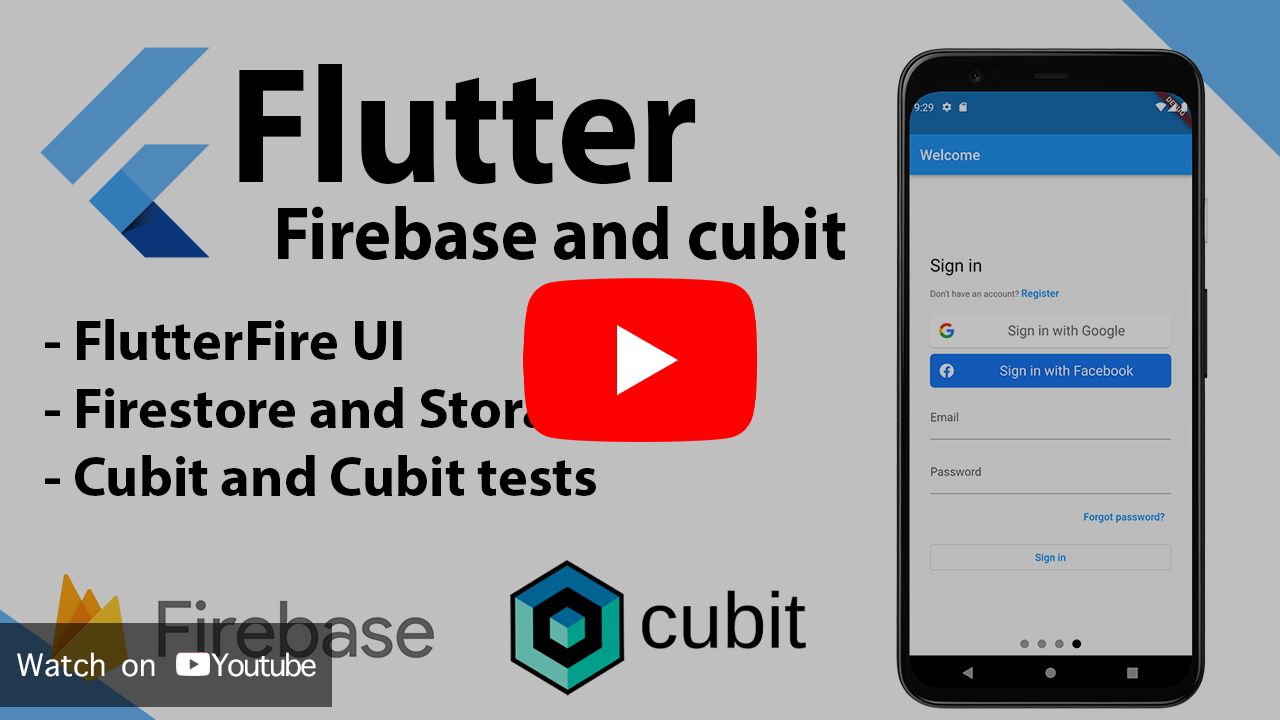
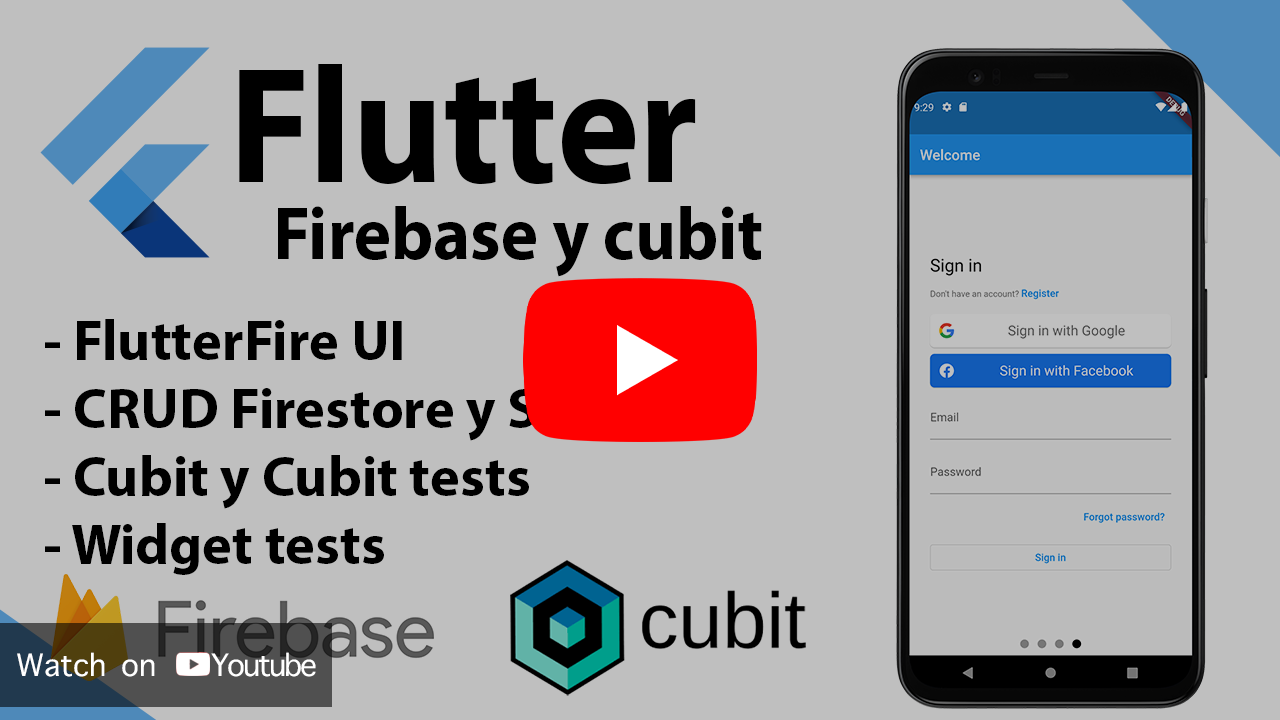
Add widget tests

Changed region(s): [[0.0625, 0.5194, 0.4688, 0.7028], [0.4375, 0.275, 0.6562, 0.3972], [0.0312, 0.7333, 0.3125, 0.7944]]

diff --git a/flutter_simple_firebase_crud_cubit/test/widget_test/edit_my_user_screen_test.dart b/flutter_simple_firebase_crud_cubit/test/widget_test/edit_my_user_screen_test.dart
@@ -1,0 +1,104 @@
+import 'package:flutter/material.dart';
+import 'package:flutter_simple_firebase_crud_cubit/main.dart';
+import 'package:flutter_simple_firebase_crud_cubit/src/model/my_user.dart';
+import 'package:flutter_simple_firebase_crud_cubit/src/repository/my_user_repository.dart';
+import 'package:flutter_simple_firebase_crud_cubit/src/ui/edit_my_user_screen.dart';
+import 'package:flutter_test/flutter_test.dart';
+import 'package:mocktail/mocktail.dart';
+
+const _myUser1 = MyUser(id: '111', name: 'Yayo', lastName: 'Arellano', age: 28);
+
+class _MockMyUser extends Mock implements MyUser {}
+
+class _MockMyUserRepo extends Mock implements MyUserRepository {}
+
+void main() {
+  late _MockMyUserRepo mockRepo;
+
+  setUp(() async {
+    await getIt.reset();
+    registerFallbackValue(_MockMyUser());
+    mockRepo = _MockMyUserRepo();
+    getIt.registerSingleton<MyUserRepository>(mockRepo);
+  });
+
+  Widget getMaterialApp({MyUser? arguments}) {
+    return MaterialApp(
+      onGenerateRoute: (settings) {
+        return MaterialPageRoute(
+          settings: RouteSettings(arguments: arguments),
+          builder: (_) => const EditMyUserScreen(),
+        );
+      },
+    );
+  }
+
+  testWidgets('Saving user will call repository successfully',
+      (WidgetTester tester) async {
+    when(() => mockRepo.saveMyUser(any(), null)).thenAnswer((_) async {});
+    when(() => mockRepo.newId()).thenReturn('5555');
+
+    await tester.pumpWidget(getMaterialApp());
+    await tester.pumpAndSettle();
+
+    await tester.enterText(find.byKey(const Key('Name')), 'Yayo');
+    await tester.enterText(find.byKey(const Key('Last Name')), 'Are');
+    await tester.enterText(find.byKey(const Key('Age')), '25');
+    await tester.pumpAndSettle();
+
+    await tester.tap(find.text('Save'));
+    await tester.pump(const Duration(seconds: 3));
+
+    const newUser = MyUser(id: '5555', name: 'Yayo', lastName: 'Are', age: 25);
+    verify(() => mockRepo.saveMyUser(newUser, null)).called(1);
+  });
+
+  testWidgets('Updating user will call repository successfully',
+      (WidgetTester tester) async {
+    when(() => mockRepo.saveMyUser(any(), null)).thenAnswer((_) async {});
+
+    await tester.pumpWidget(getMaterialApp(arguments: _myUser1));
+    await tester.pumpAndSettle();
+
+    await tester.enterText(find.byKey(const Key('Name')), 'Hola');
+    await tester.enterText(find.byKey(const Key('Last Name')), 'Mundo');
+    await tester.enterText(find.byKey(const Key('Age')), '10');
+    await tester.pumpAndSettle();
+
+    await tester.tap(find.text('Save'));
+    await tester.pump(const Duration(seconds: 3));
+
+    final updatedUser =
+        _myUser1.copyWith(name: 'Hola', lastName: 'Mundo', age: 10);
+    verify(() => mockRepo.saveMyUser(updatedUser, null)).called(1);
+  });
+
+  testWidgets('When is a new user delete button is not visible',
+      (WidgetTester tester) async {
+    await tester.pumpWidget(getMaterialApp());
+    await tester.pumpAndSettle();
+
+    expect(find.byKey(const Key('Delete')), findsNothing);
+  });
+
+  testWidgets('When is an editing user delete button is visible',
+      (WidgetTester tester) async {
+    await tester.pumpWidget(getMaterialApp(arguments: _myUser1));
+    await tester.pumpAndSettle();
+
+    expect(find.byKey(const Key('Delete')), findsOneWidget);
+  });
+
+  testWidgets('Deleting an editing user will call repository successfully',
+      (WidgetTester tester) async {
+    when(() => mockRepo.deleteMyUser(any())).thenAnswer((_) async {});
+
+    await tester.pumpWidget(getMaterialApp(arguments: _myUser1));
+    await tester.pumpAndSettle();
+
+    await tester.tap(find.byKey(const Key('Delete')));
+    await tester.pump();
+
+    verify(() => mockRepo.deleteMyUser(_myUser1)).called(1);
+  });
+}

diff --git a/flutter_simple_firebase_crud_cubit/test/widget_test/auth_test.dart b/flutter_simple_firebase_crud_cubit/test/widget_test/auth_test.dart
@@ -1,0 +1,88 @@
+import 'dart:async';
+
+import 'package:flutter/material.dart';
+import 'package:flutter_bloc/flutter_bloc.dart';
+import 'package:flutter_simple_firebase_crud_cubit/main.dart';
+import 'package:flutter_simple_firebase_crud_cubit/src/app.dart';
+import 'package:flutter_simple_firebase_crud_cubit/src/cubit/auth_cubit.dart';
+import 'package:flutter_simple_firebase_crud_cubit/src/repository/auth_repository.dart';
+import 'package:flutter_simple_firebase_crud_cubit/src/repository/my_user_repository.dart';
+import 'package:flutter_simple_firebase_crud_cubit/src/ui/home_screen.dart';
+import 'package:flutter_simple_firebase_crud_cubit/src/ui/intro_screen.dart';
+import 'package:flutter_simple_firebase_crud_cubit/src/ui/splash_screen.dart';
+import 'package:flutter_test/flutter_test.dart';
+import 'package:mocktail/mocktail.dart';
+
+class _MockAuthRepo extends Mock implements AuthRepository {}
+
+class _MockMyUserRepo extends Mock implements MyUserRepository {}
+
+Stream<String> get loggedUserStream => Stream.fromIterable(['someUserID']);
+
+void main() {
+  late _MockAuthRepo mockRepo;
+  late _MockMyUserRepo mockUserRepo;
+
+  setUp(() async {
+    await getIt.reset();
+
+    mockRepo = _MockAuthRepo();
+    mockUserRepo = _MockMyUserRepo();
+
+    when(() => mockUserRepo.getMyUsers())
+        .thenAnswer((_) => Stream.fromIterable([]));
+
+    getIt.registerSingleton<AuthRepository>(mockRepo);
+    getIt.registerSingleton<MyUserRepository>(mockUserRepo);
+  });
+
+  Widget getMyApp() {
+    return BlocProvider(
+      create: (_) => AuthCubit()..init(),
+      child: const MyApp(),
+    );
+  }
+
+  testWidgets(
+      'Intro screen will be shown after splash when the user is not logged in',
+      (WidgetTester tester) async {
+    final stream = Stream.fromIterable([null]);
+    when(() => mockRepo.onAuthStateChanged).thenAnswer((_) => stream);
+
+    await tester.pumpWidget(getMyApp());
+    await tester.pump();
+    expect(find.byType(SplashScreen), findsOneWidget);
+
+    await tester.pumpAndSettle();
+    expect(find.byType(IntroScreen), findsOneWidget);
+  });
+
+  testWidgets(
+      'Home screen will be shown after splash when the user is logged in',
+      (WidgetTester tester) async {
+    when(() => mockRepo.onAuthStateChanged).thenAnswer((_) => loggedUserStream);
+
+    await tester.pumpWidget(getMyApp());
+    await tester.pump();
+    expect(find.byType(SplashScreen), findsOneWidget);
+
+    await tester.pumpAndSettle();
+    expect(find.byType(HomeScreen), findsOneWidget);
+  });
+
+  testWidgets('Pressing logout will return to the IntroScreen',
+      (WidgetTester tester) async {
+    when(() => mockRepo.onAuthStateChanged).thenAnswer((_) => loggedUserStream);
+    when(() => mockRepo.signOut()).thenAnswer((_) async {});
+
+    await tester.pumpWidget(getMyApp());
+    await tester.pumpAndSettle();
+
+    expect(find.byType(HomeScreen), findsOneWidget);
+
+    await tester.tap(find.byKey(const Key('Logout')));
+    await tester.pumpAndSettle();
+
+    expect(find.byType(IntroScreen), findsOneWidget);
+  });
+}

diff --git a/flutter_simple_firebase_crud_cubit/test/widget_test/home_screen_test.dart b/flutter_simple_firebase_crud_cubit/test/widget_test/home_screen_test.dart
@@ -1,0 +1,54 @@
+import 'package:flutter/material.dart';
+import 'package:flutter_simple_firebase_crud_cubit/main.dart';
+import 'package:flutter_simple_firebase_crud_cubit/src/model/my_user.dart';
+import 'package:flutter_simple_firebase_crud_cubit/src/repository/my_user_repository.dart';
+import 'package:flutter_simple_firebase_crud_cubit/src/ui/home_screen.dart';
+import 'package:flutter_test/flutter_test.dart';
+import 'package:mocktail/mocktail.dart';
+
+const _myUser1 = MyUser(id: '111', name: 'Yayo', lastName: 'Arellano', age: 28);
+const _myUser2 = MyUser(id: '222', name: 'Gera', lastName: 'Doe', age: 25);
+
+class _MockMyUserRepo extends Mock implements MyUserRepository {}
+
+void main() {
+  late _MockMyUserRepo mockRepo;
+
+  setUp(() async {
+    await getIt.reset();
+    mockRepo = _MockMyUserRepo();
+    getIt.registerSingleton<MyUserRepository>(mockRepo);
+  });
+
+  Widget getMaterialApp() {
+    return const MaterialApp(
+      home: HomeScreen(),
+    );
+  }
+
+  testWidgets('Empty list when repository returns 0 users',
+      (WidgetTester tester) async {
+    when(() => mockRepo.getMyUsers()).thenAnswer((_) {
+      return Stream.fromIterable([]);
+    });
+
+    await tester.pumpWidget(getMaterialApp());
+    await tester.pumpAndSettle();
+
+    expect(find.byType(Card), findsNothing);
+  });
+
+  testWidgets('Two items in the  list when repository returns 2 users',
+      (WidgetTester tester) async {
+    when(() => mockRepo.getMyUsers()).thenAnswer((_) {
+      return Stream.fromIterable([
+        [_myUser1, _myUser2]
+      ]);
+    });
+
+    await tester.pumpWidget(getMaterialApp());
+    await tester.pumpAndSettle();
+
+    expect(find.byType(Card), findsNWidgets(2));
+  });
+}

diff --git a/flutter_simple_firebase_crud_cubit/lib/src/ui/edit_my_user_screen.dart b/flutter_simple_firebase_crud_cubit/lib/src/ui/edit_my_user_screen.dart
@@ -27,6 +27,7 @@ class EditMyUserScreen extends StatelessWidget {
               return Visibility(
                 visible: userToEdit != null,
                 child: IconButton(
+                  key: const Key('Delete'),
                   icon: const Icon(Icons.delete),
                   onPressed: () {
                     context.read<EditMyUserCubit>().deleteMyUser();
@@ -125,16 +126,19 @@ class _MyUserSectionState extends State<_MyUserSection> {
             ),
             const SizedBox(height: 8),
             TextField(
+              key: const Key('Name'),
               controller: _nameController,
               decoration: const InputDecoration(labelText: 'Name'),
             ),
             const SizedBox(height: 8),
             TextField(
+              key: const Key('Last Name'),
               controller: _lastNameController,
               decoration: const InputDecoration(labelText: 'Last Name'),
             ),
             const SizedBox(height: 8),
             TextField(
+              key: const Key('Age'),
               controller: _ageController,
               keyboardType: TextInputType.number,
               decoration: const InputDecoration(labelText: 'Age'),

diff --git a/flutter_simple_firebase_crud_cubit/lib/src/navigation/routes.dart b/flutter_simple_firebase_crud_cubit/lib/src/navigation/routes.dart
@@ -13,19 +13,19 @@ class Routes {
   static Route routes(RouteSettings settings) {
 
     // Helper nested function.
-    MaterialPageRoute _buildRoute(Widget widget) {
+    MaterialPageRoute buildRoute(Widget widget) {
       return MaterialPageRoute(builder: (_) => widget, settings: settings);
     }
 
     switch (settings.name) {
       case splash:
-        return _buildRoute(const SplashScreen());
+        return buildRoute(const SplashScreen());
       case intro:
-        return _buildRoute(const IntroScreen());
+        return buildRoute(const IntroScreen());
       case home:
-        return _buildRoute(const HomeScreen());
+        return buildRoute(const HomeScreen());
       case editUser:
-        return _buildRoute(const EditMyUserScreen());
+        return buildRoute(const EditMyUserScreen());
       default:
         throw Exception('Route does not exists');
     }

diff --git a/flutter_simple_firebase_crud_cubit/lib/src/ui/intro_screen.dart b/flutter_simple_firebase_crud_cubit/lib/src/ui/intro_screen.dart
@@ -7,11 +7,11 @@ import 'package:page_indicator/page_indicator.dart';
 
 // Replace with your client id
 final googleClientId = kIsWeb || Platform.isAndroid
-    ? '925019682416-duvllfhr13hub3fs150uekm6kh483eu1.apps.googleusercontent.com'
-    : '925019682416-2s33mbmpcaj9old3dk56cgrt8o8qb973.apps.googleusercontent.com';
+    ? 'your-android-and-web-client-id'
+    : 'your-ios-client-id';
 
 // Replace with your client id
-const facebookClientId = 'xxxxxx';
+const facebookClientId = 'your-facebook-client-id';
 
 class IntroScreen extends StatelessWidget {
   const IntroScreen({super.key});
@@ -67,7 +67,6 @@ class _DescriptionPage extends StatelessWidget {
   final String imagePath;
 
   const _DescriptionPage({
-    super.key,
     required this.text,
     required this.imagePath,
   });

diff --git a/flutter_simple_firebase_crud_cubit/lib/src/ui/home_screen.dart b/flutter_simple_firebase_crud_cubit/lib/src/ui/home_screen.dart
@@ -15,6 +15,7 @@ class HomeScreen extends StatelessWidget {
         title: const Text('Home screen'),
         actions: [
           IconButton(
+            key: const Key('Logout'),
             onPressed: () {
               // Get the instance of AuthCubit and signOut
               final authCubit = context.read<AuthCubit>();

diff --git a/flutter_simple_firebase_crud_cubit/README.md b/flutter_simple_firebase_crud_cubit/README.md
@@ -7,7 +7,7 @@
 - Separate the app in multiple layers (presentation, business logic, data)
 - Cubit tests
 
-# Videotutorial
+# Videotutorial (spanish)
 
 <a href="https://youtu.be/8QW39PYRDvQ"> <img src="screenshots/youtube.png" width="70%"/></a>
 
